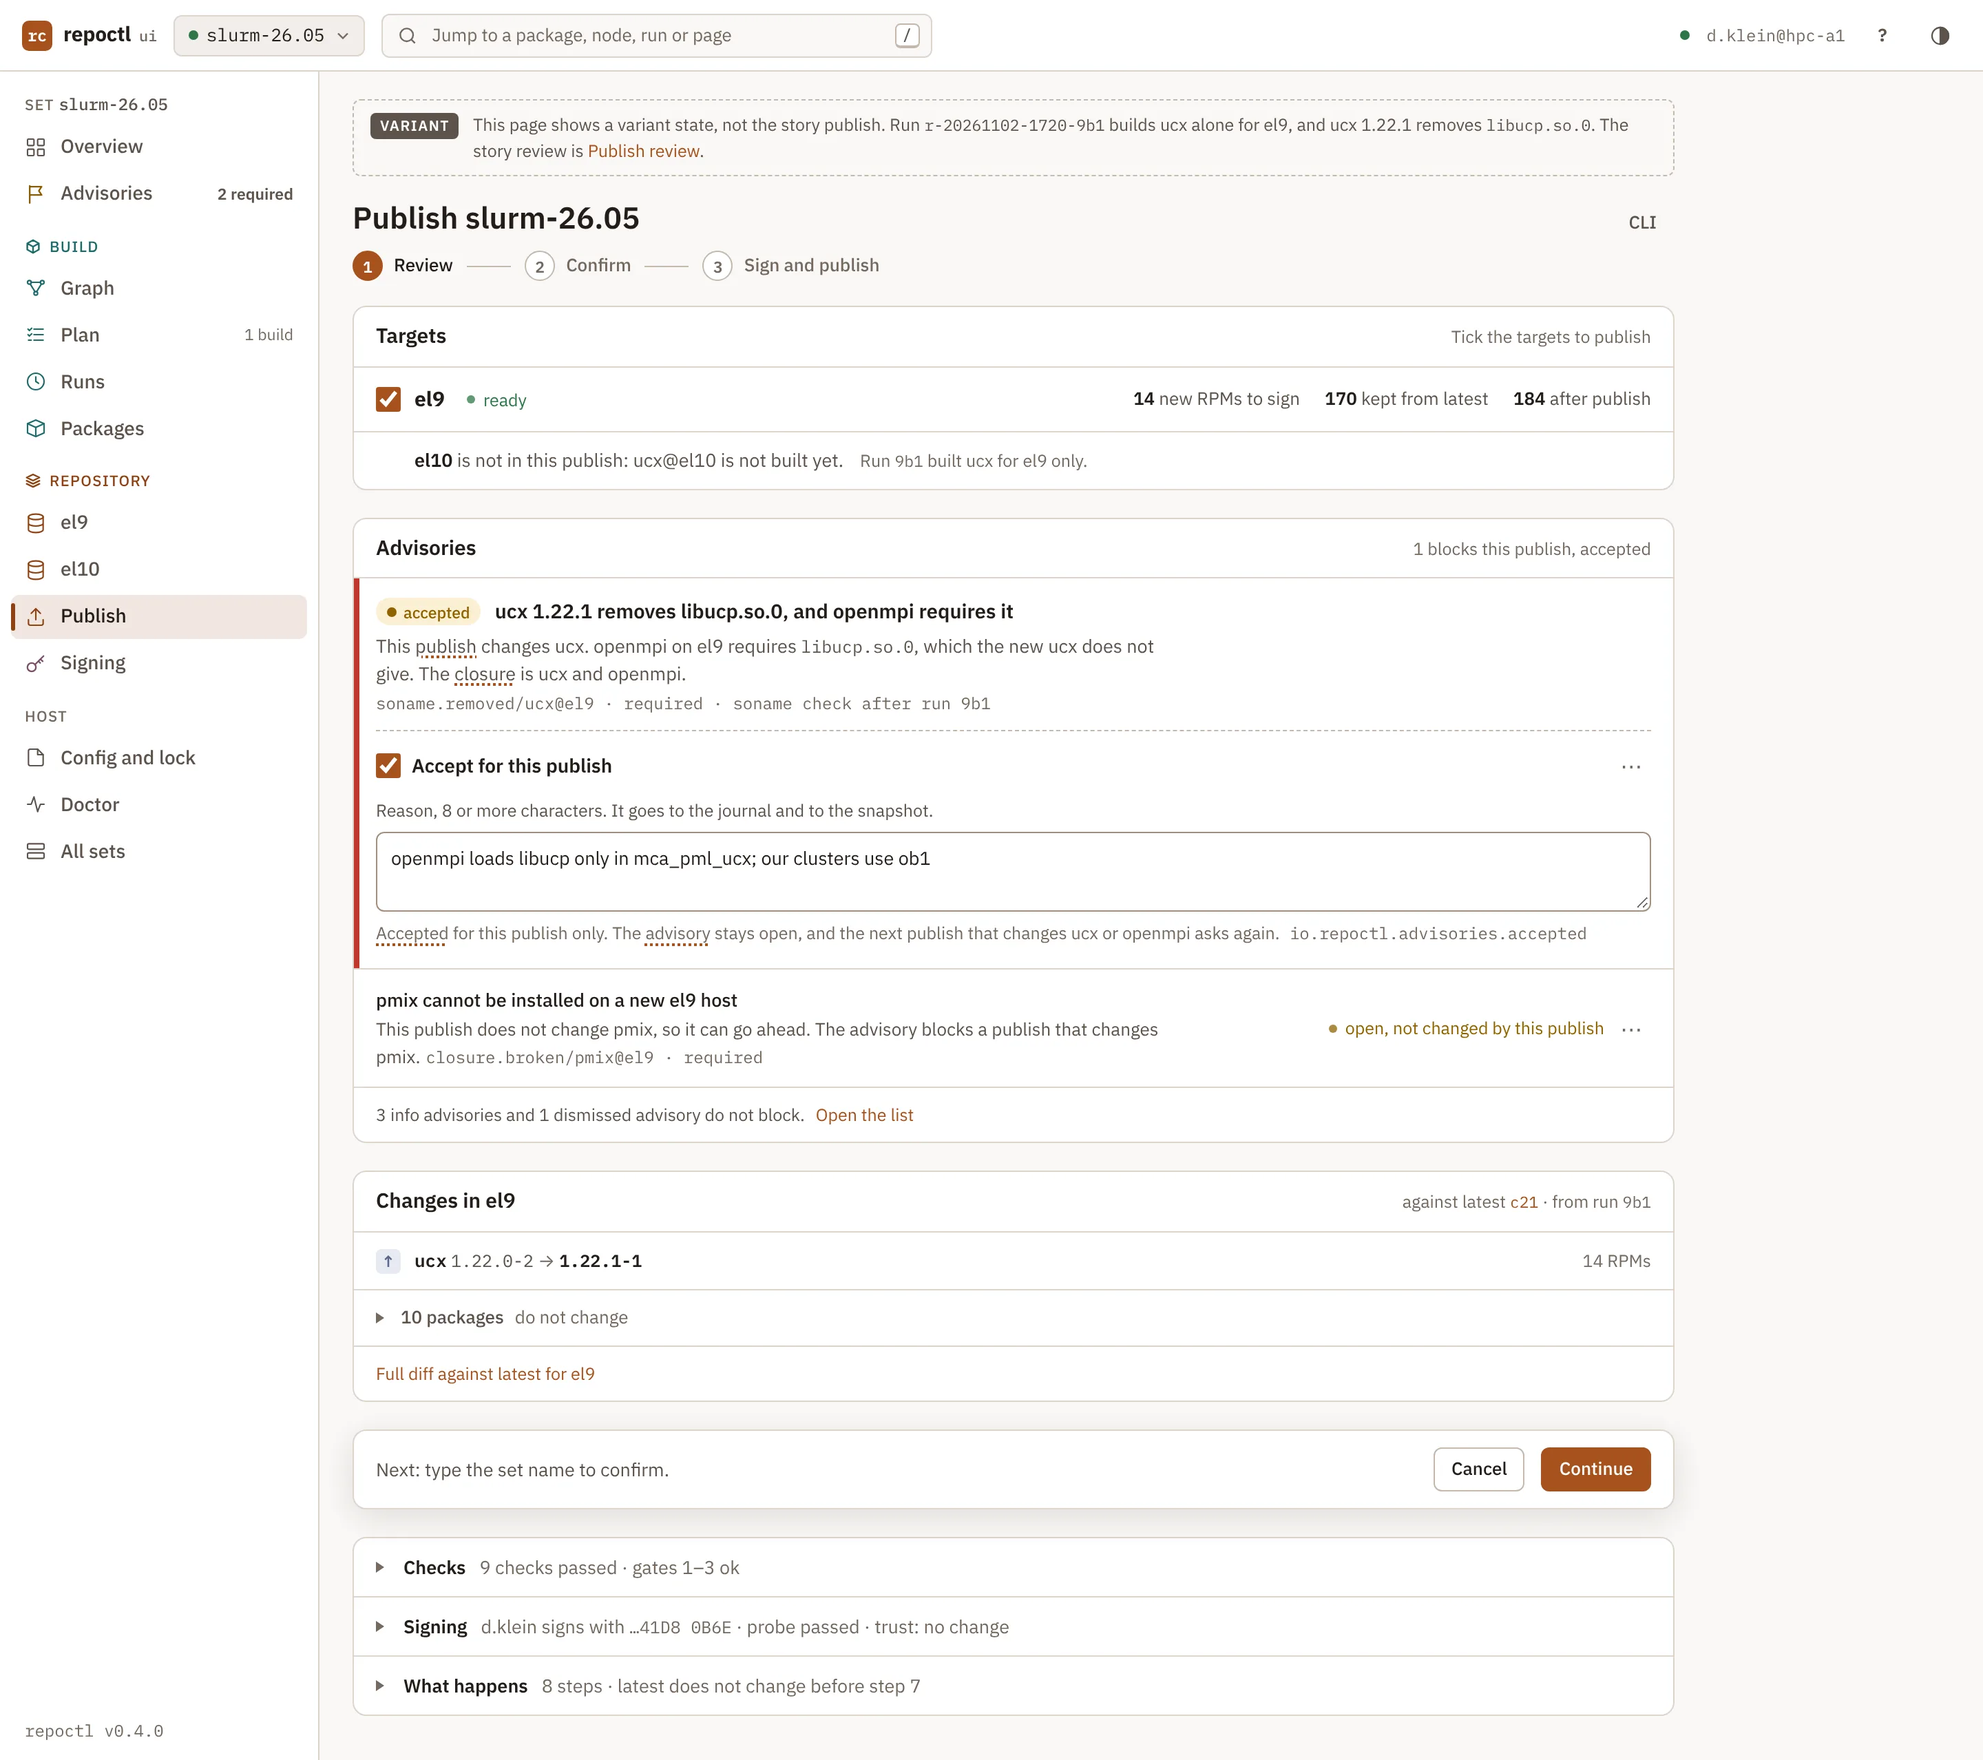
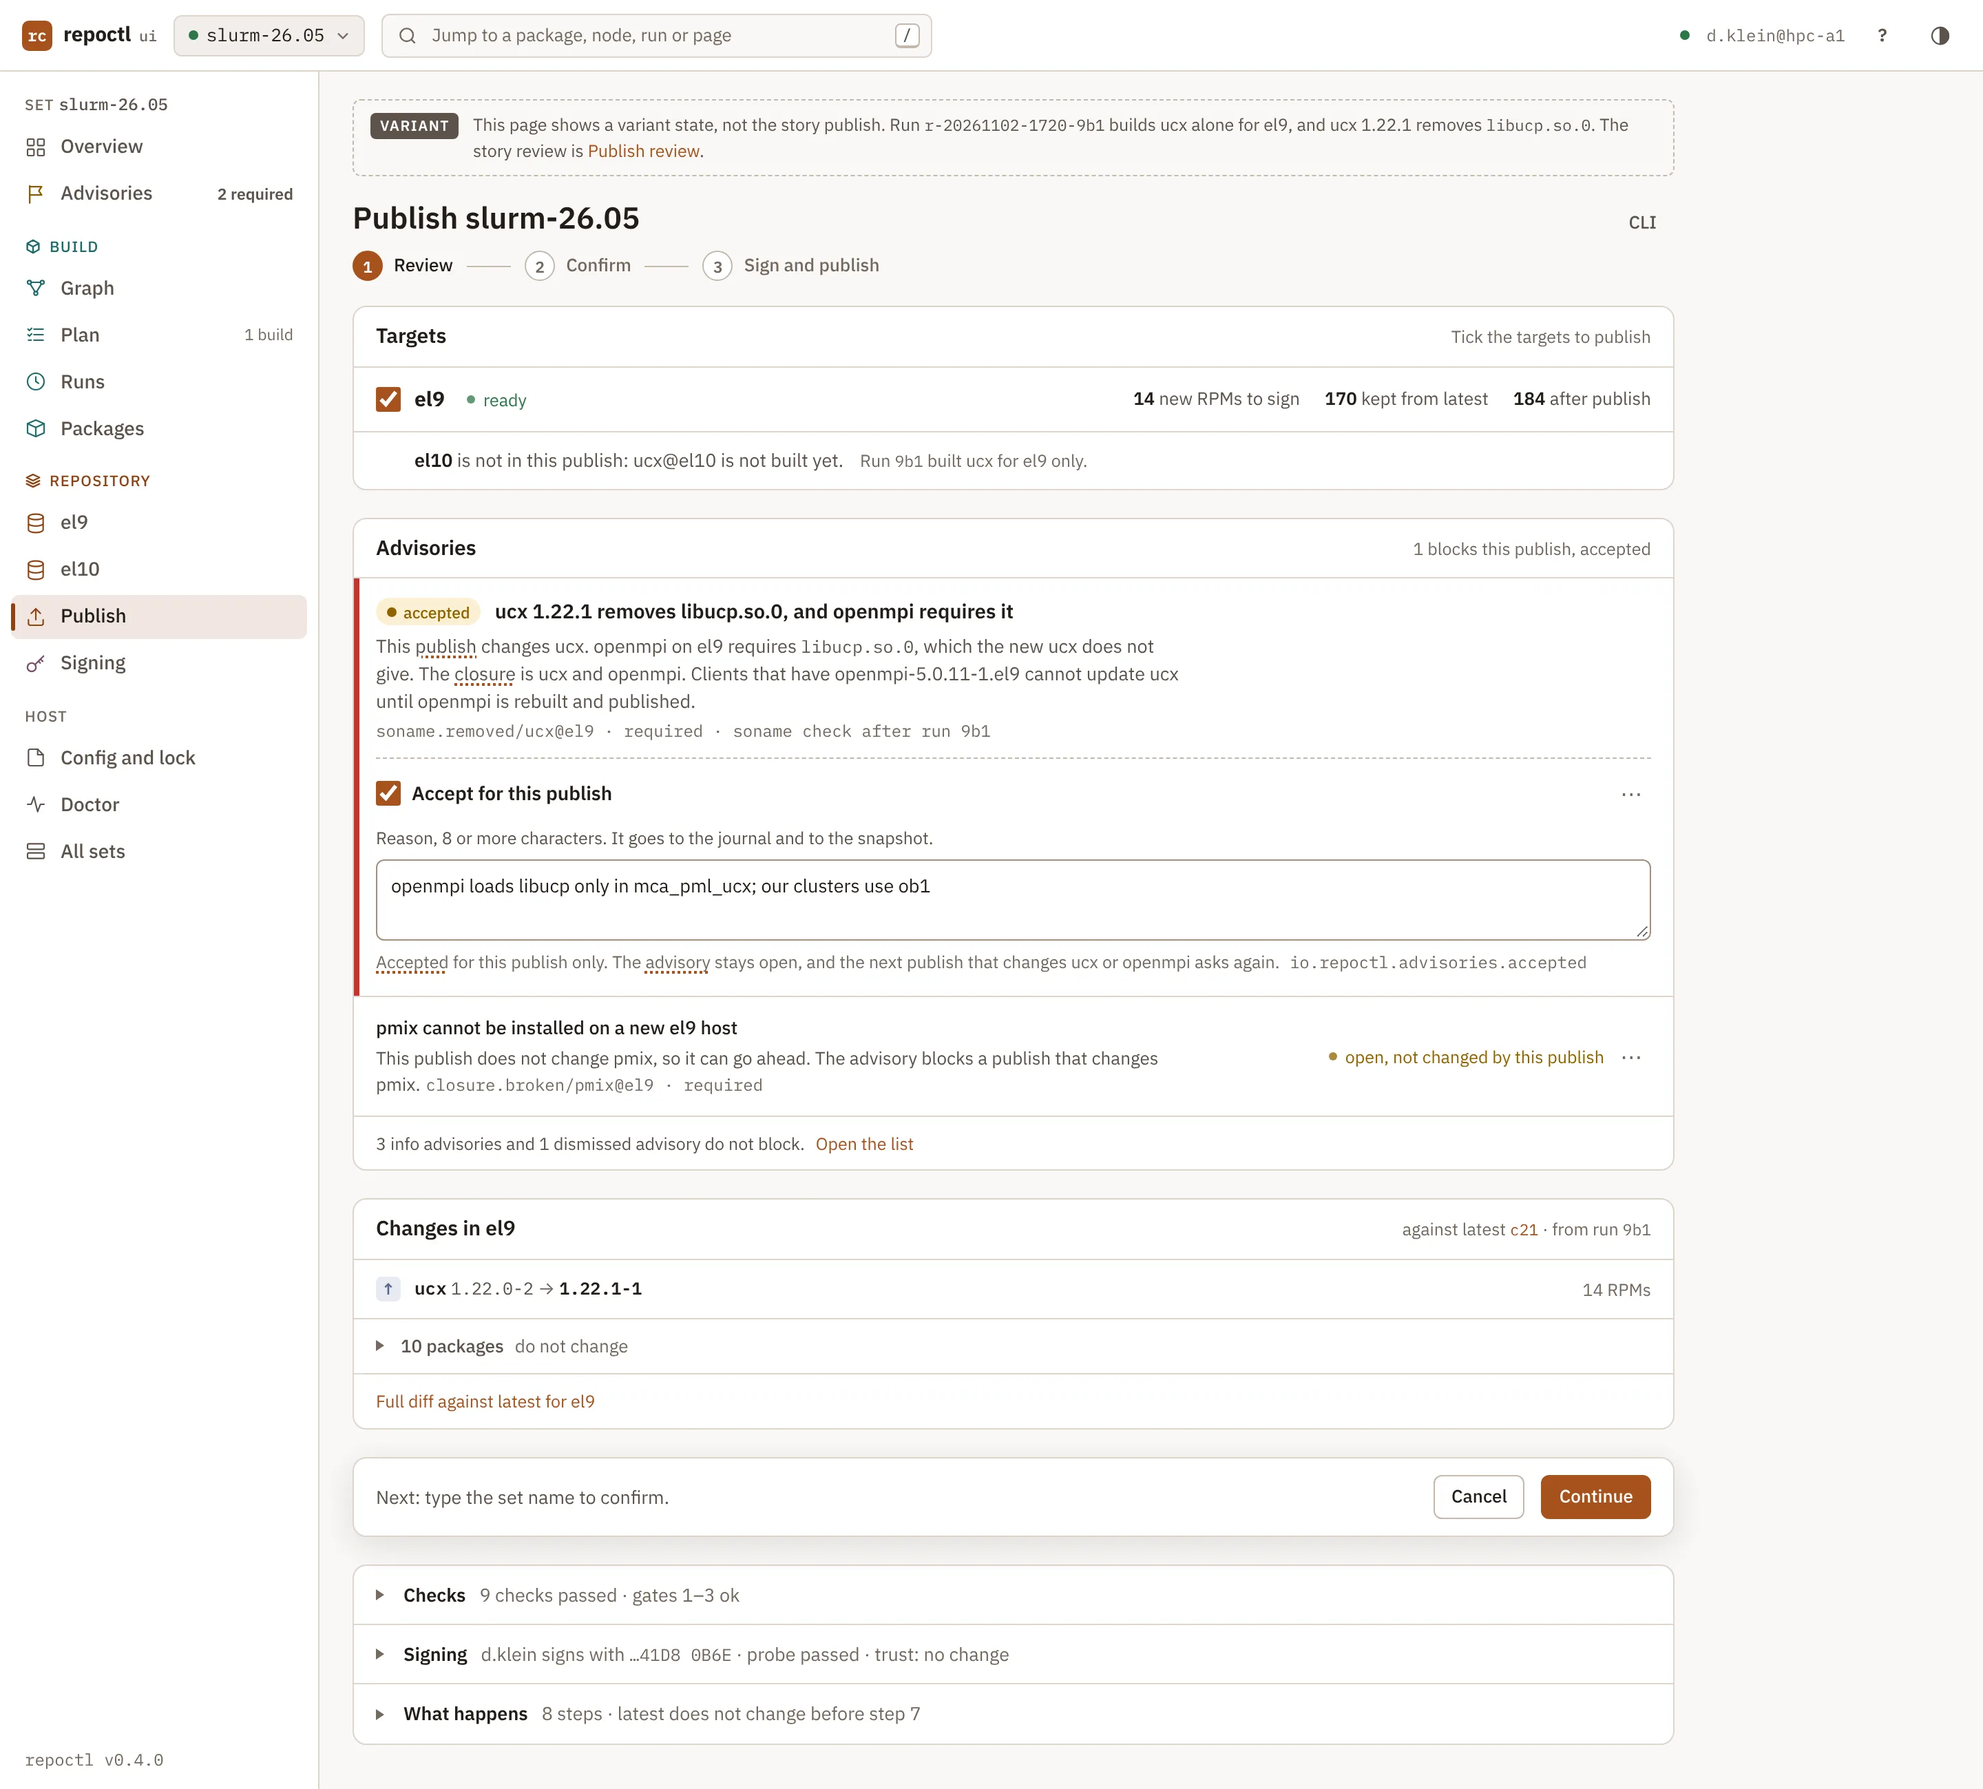
docs(design): show the client effect of an accepted soname.removed
- advisories#accept: an acceptance does not change what clients can
  install; clients with a requirer installed cannot update the provider
  until the requirer has a new build in latest
- the gate row, the blocked output and the gate explainer name the
  affected requirer NVRs; Run.publish.gate[].affected holds them
- ui-publish#accept and #confirm state the same sentence; the accept
  mockup and its screenshot show it

diff --git a/docs/design/advisories.html b/docs/design/advisories.html
@@ -526,12 +526,13 @@ ExecStart=/usr/bin/repoctl -C %I check --quiet --check --min-level required</cod
 <text class="t-small" x="16" y="296" data-f="6">this publish, or accept</text>
 <text class="t-small" x="16" y="296" data-f="7">openmpi@el9 is open</text>
 </svg>
-<script type="application/json" class="steps">["Story, 2026-11-03 14:05 · Publish of el9. Base: latest p-20260912-1403-c21 with 170 RPMs. The publish takes the staged el9 nodes of r-…a3f: ucx, slurm, openmpi and slurm-singularity-exec, 38 new RPMs. The advisory closure.broken/pmix@el9 is open since the check of 2026-11-02 06:00.", "Step 1 · The gate makes the result tree: latest plus the nodes of this publish, 208 RPMs. A new NVR is the newest NVR of its name. The old NVRs stay in the tree.", "Step 2 · dnf repoclosure --newest runs on the result tree plus Rocky 9 and EPEL 9. One requirement is broken: pmix-6.1.0-1.el9 needs libhwloc.so.15, and EPEL 9 now gives only libhwloc.so.16.", "Step 3 · No dir of this publish provided libhwloc.so.15, so the advisory is closure.broken/pmix@el9. The closure is the dir that built the RPM (pmix), plus each set dir with an older NVR that provides the requirement. hwloc is not in the set, so the closure is {pmix}.", "Step 4 · The closure {pmix} has no dir of this publish. The advisory does not block. The summary shows it as open, not changed by this publish. Info advisories never block. The publish p-20261103-1412-5e1 continues.", "Variant, not the story · Run r-20261102-1720-9b1 builds ucx alone, and ucx 1.22.1 removes libucp.so.0. After the build of ucx@el9, the soname check writes soname.removed/ucx@el9 (required). The publish takes only ucx.", "Variant · The repoclosure finds that openmpi-5.0.11-1.el9 needs libucp.so.0. The closure {ucx, openmpi} holds ucx, a dir of this publish. The gate blocks el9: exit 12, problem advisory.open, humanAction accept-advisory.", "Variant · The human accepts the advisory for this publish, with the reason \"openmpi loads libucp only in mca_pml_ucx; our clusters use ob1\". repoctl writes advisory.accepted to the journal and to the snapshot annotation. After the publish, closure.broken/openmpi@el9 is open until openmpi has a new build."]</script>
+<script type="application/json" class="steps">["Story, 2026-11-03 14:05 · Publish of el9. Base: latest p-20260912-1403-c21 with 170 RPMs. The publish takes the staged el9 nodes of r-…a3f: ucx, slurm, openmpi and slurm-singularity-exec, 38 new RPMs. The advisory closure.broken/pmix@el9 is open since the check of 2026-11-02 06:00.", "Step 1 · The gate makes the result tree: latest plus the nodes of this publish, 208 RPMs. A new NVR is the newest NVR of its name. The old NVRs stay in the tree.", "Step 2 · dnf repoclosure --newest runs on the result tree plus Rocky 9 and EPEL 9. One requirement is broken: pmix-6.1.0-1.el9 needs libhwloc.so.15, and EPEL 9 now gives only libhwloc.so.16.", "Step 3 · No dir of this publish provided libhwloc.so.15, so the advisory is closure.broken/pmix@el9. The closure is the dir that built the RPM (pmix), plus each set dir with an older NVR that provides the requirement. hwloc is not in the set, so the closure is {pmix}.", "Step 4 · The closure {pmix} has no dir of this publish. The advisory does not block. The summary shows it as open, not changed by this publish. Info advisories never block. The publish p-20261103-1412-5e1 continues.", "Variant, not the story · Run r-20261102-1720-9b1 builds ucx alone, and ucx 1.22.1 removes libucp.so.0. After the build of ucx@el9, the soname check writes soname.removed/ucx@el9 (required). The publish takes only ucx.", "Variant · The repoclosure finds that openmpi-5.0.11-1.el9 needs libucp.so.0. The closure {ucx, openmpi} holds ucx, a dir of this publish. The gate blocks el9: exit 12, problem advisory.open, humanAction accept-advisory.", "Variant · The human accepts the advisory for this publish, with the reason \"openmpi loads libucp only in mca_pml_ucx; our clusters use ob1\". repoctl writes advisory.accepted to the journal and to the snapshot annotation. After the publish, closure.broken/openmpi@el9 is open until openmpi has a new build. Until then, clients that have openmpi-5.0.11-1.el9 cannot update ucx."]</script>
 <figcaption>The gate on the story publish of el9 (frames 0 to 4), and a variant in which the gate blocks (frames 5 to 7). The variant is not part of the story.</figcaption>
 </figure>
 <p>A blocked publish fails with exit 12. The problem code is <code>advisory.open</code>. Its humanAction is <code>accept-advisory</code> with the exact command. For the variant, the output is:</p>
 <pre class="term">repoctl: error: el9: a required advisory has a dir of this publish in its closure
   soname.removed/ucx@el9  libucp.so.0 removed; openmpi requires it (closure: ucx, openmpi)
+  affected: clients with openmpi-5.0.11-1.el9 cannot update ucx until openmpi is rebuilt and published
 hint: rebuild the dependents into this publish. run: repoctl rebuild openmpi --reason "ucx: libucp.so.0 removed"
 hint: or accept it for this publish. run: repoctl publish --target el9 --accept-advisory soname.removed/ucx@el9 --reason TEXT</pre>
 <h3 id="gate-kinds">Gate per publish kind</h3>
@@ -553,6 +554,7 @@ hint: or accept it for this publish. run: repoctl publish --target el9 --accept-
   <li><code>--accept-advisory</code> takes an id, not a code. One flag accepts one advisory. It does not accept a later advisory with the same code.</li>
   <li><code>--reason</code> is required with <code>--accept-advisory</code>, with at least 8 characters. One reason covers all ids of the call.</li>
   <li>Only the gate in step check knows if an id blocks. An id that does not block this publish stops the publish in step check with <code>advisory.not-blocking</code> (exit 12), before the first signature. The output has the envelope and the problem. Thus a human cannot accept an advisory in advance.</li>
+  <li>An acceptance does not change what the clients can install. After an accepted <code>soname.removed</code>, a client that has a requirer installed cannot update the provider, and a new host cannot install both, until the requirer has a new build in latest. In the variant, clients with openmpi-5.0.11-1.el9 cannot update ucx until openmpi is rebuilt and published. The gate row lists these requirer NVRs (<code>affected</code>).</li>
   <li>The acceptance is valid for this publish only. repoctl writes the event <code>advisory.accepted</code> (id, factsDigest, reason, user, host) to the journal and the same list to the snapshot annotation <code>io.repoctl.advisories.accepted</code>.</li>
   <li><code>--yes</code> does not accept an advisory. An unattended publish with a blocking advisory fails with exit 12.</li>
   <li>An acceptance needs a human. Without a terminal, publish refuses <code>--accept-advisory</code> with <code>publish.unattended-refused</code> (exit 6), also when <code>REPOCTL_ALLOW_UNATTENDED_PUBLISH</code> is 1. In the web UI, the confirm dialog is the step of the human (<a href="ui-publish.html#confirm">confirm</a>).</li>
@@ -560,7 +562,7 @@ hint: or accept it for this publish. run: repoctl publish --target el9 --accept-
 </ul>
 <pre class="term">$ repoctl publish --target el9 --accept-advisory soname.removed/ucx@el9 \
     --reason "openmpi loads libucp only in mca_pml_ucx; our clusters use ob1"</pre>
-<p>The summary of the publish has one gate row per required advisory: id, blocks, accepted. Web UI: <a href="ui-publish.html#review">publish review</a>, <a href="ui-publish.html#accept">accept for this publish</a>. Command: <a href="cli.html#cmd-publish">repoctl publish</a>.</p>
+<p>The summary of the publish has one gate row per required advisory: id, blocks, accepted and, for <code>soname.removed</code>, the affected requirer NVRs. Web UI: <a href="ui-publish.html#review">publish review</a>, <a href="ui-publish.html#accept">accept for this publish</a>. Command: <a href="cli.html#cmd-publish">repoctl publish</a>.</p>
 
 <h2 id="recovery">Recovery path</h2>
 <p><code>repoctl help advisories</code> prints this text. It gives the full path for a required advisory.</p>

diff --git a/docs/design/ui-publish.html b/docs/design/ui-publish.html
@@ -200,7 +200,7 @@
 <figure class="shot"><a href="mockups/ui/publish-accept.html"><img src="img/ui-publish-accept.webp" alt="Variant review of el9: soname.removed/ucx@el9 accepted with a reason, pill accepted, red edge kept, Continue on" loading="lazy"></a><figcaption>Variant, not the story publish: the human accepts soname.removed/ucx@el9 for this publish.</figcaption></figure>
 <aside class="callout note"><p class="callout-title">Variant</p><p>This screen uses a variant state. In the story, no advisory blocks the el9 publish. In the variant, run <code>r-20261102-1720-9b1</code> builds ucx alone, and ucx 1.22.1 removes libucp.so.0. The soname check gives <code>soname.removed/ucx@el9</code> (required): "libucp.so.0 removed; openmpi requires it". The closure is ucx and openmpi.</p></aside>
 <ul>
-  <li><b>Blocker.</b> The gate row comes right after the targets. It is the only red item of the page: "This publish changes ucx, and openmpi on el9 requires libucp.so.0." Continue is off.</li>
+  <li><b>Blocker.</b> The gate row comes right after the targets. It is the only red item of the page: "This publish changes ucx, and openmpi on el9 requires libucp.so.0." A second sentence names the effect on the clients: "Clients that have openmpi-5.0.11-1.el9 cannot update ucx until openmpi is rebuilt and published." Continue is off.</li>
   <li><b>Ways out.</b> Rebuild… (openmpi) is the primary of the row. The checkbox "Accept for this publish" opens a reason field (8 or more characters). The reason goes to the journal and to the snapshot annotation <code>io.repoctl.advisories.accepted</code>. The reason is public (<a href="security.html#public">security.html#public</a>).</li>
   <li><b>Accepted.</b> The pill reads <span class="tag warn">accepted</span>. The red edge of the row stays, so the exception stays visible. Rebuild…, Show closure and the agent button move into ⋯. The CLI toggle shows <code>repoctl publish --target el9 --accept-advisory soname.removed/ucx@el9 --reason "openmpi loads libucp only in mca_pml_ucx; our clusters use ob1"</code>. The footer says "Next: type the set name to confirm.", and Continue is on.</li>
   <li><b>Counts.</b> 14 new RPMs (ucx only), 170 kept, 184 after. 10 packages do not change.</li>
@@ -214,7 +214,7 @@
   <li>Target and store: el9 to <code>ghcr.io/gsi-hpc/slurm-repo/slurm-26.05-el9</code> as p-20261103-1412-5e1, in quiet text.</li>
   <li>Sign 38 RPMs and 3 repomd.xml files with d.klein …41D8 0B6E.</li>
   <li>Keep 170 RPMs with their signatures. 50 of them carry the retiring key hpc-repo (quiet text).</li>
-  <li>Advisories: none accepted. In the variant: "soname.removed/ucx@el9 accepted" with the reason.</li>
+  <li>Advisories: none accepted. In the variant: "soname.removed/ucx@el9 accepted" with the reason, and "Clients that have openmpi cannot update ucx until openmpi is rebuilt and published."</li>
   <li>Trust change: none. Hosts see the new RPMs after the mirror job and the metadata expiry of the clients.</li>
 </ol>
 <p>The field "Type slurm-26.05 to confirm" comes next. A trust change puts one field per added key above it, for example "Type the key id a.admin" for the publish of slurm-release-26.05-3. Sign and publish is a solid danger button. It is off until each field matches. The dialog has no CLI line; the CLI toggle of the review holds the command. Cancel and Esc close the dialog.</p>

diff --git a/docs/design/mockups/ui/publish-accept.html b/docs/design/mockups/ui/publish-accept.html
@@ -89,7 +89,7 @@ repoctl publish --target el9 --accept-advisory soname.removed/ucx@el9 \
   <div class="card-head"><h2 id="adv-t">Advisories</h2><span class="right">1 blocks this publish, accepted</span></div>
   <article class="blocker" id="adv-soname.removed-ucx-el9" data-advisory-id="soname.removed/ucx@el9" sse-swap="advisory:soname.removed/ucx@el9" hx-swap="outerHTML" aria-labelledby="blk-t">
     <div class="blocker-top"><span class="pill st-blocked">accepted</span><h3 id="blk-t">ucx 1.22.1 removes libucp.so.0, and openmpi requires it</h3></div>
-    <p>This <a class="gl" href="../../glossary.html#publish" data-gl="publish" data-domain="publish">publish</a> changes ucx. openmpi on el9 requires <span class="mono">libucp.so.0</span>, which the new ucx does not give. The <a class="gl" href="../../glossary.html#closure" data-gl="closure" data-domain="adv">closure</a> is ucx and openmpi.</p>
+    <p>This <a class="gl" href="../../glossary.html#publish" data-gl="publish" data-domain="publish">publish</a> changes ucx. openmpi on el9 requires <span class="mono">libucp.so.0</span>, which the new ucx does not give. The <a class="gl" href="../../glossary.html#closure" data-gl="closure" data-domain="adv">closure</a> is ucx and openmpi. Clients that have openmpi-5.0.11-1.el9 cannot update ucx until openmpi is rebuilt and published.</p>
     <div class="code-sub">soname.removed/ucx@el9 · required · soname check after run 9b1</div>
     <div class="accept">
       <label class="ck"><input class="check" type="checkbox" name="accept" value="soname.removed/ucx@el9" checked
